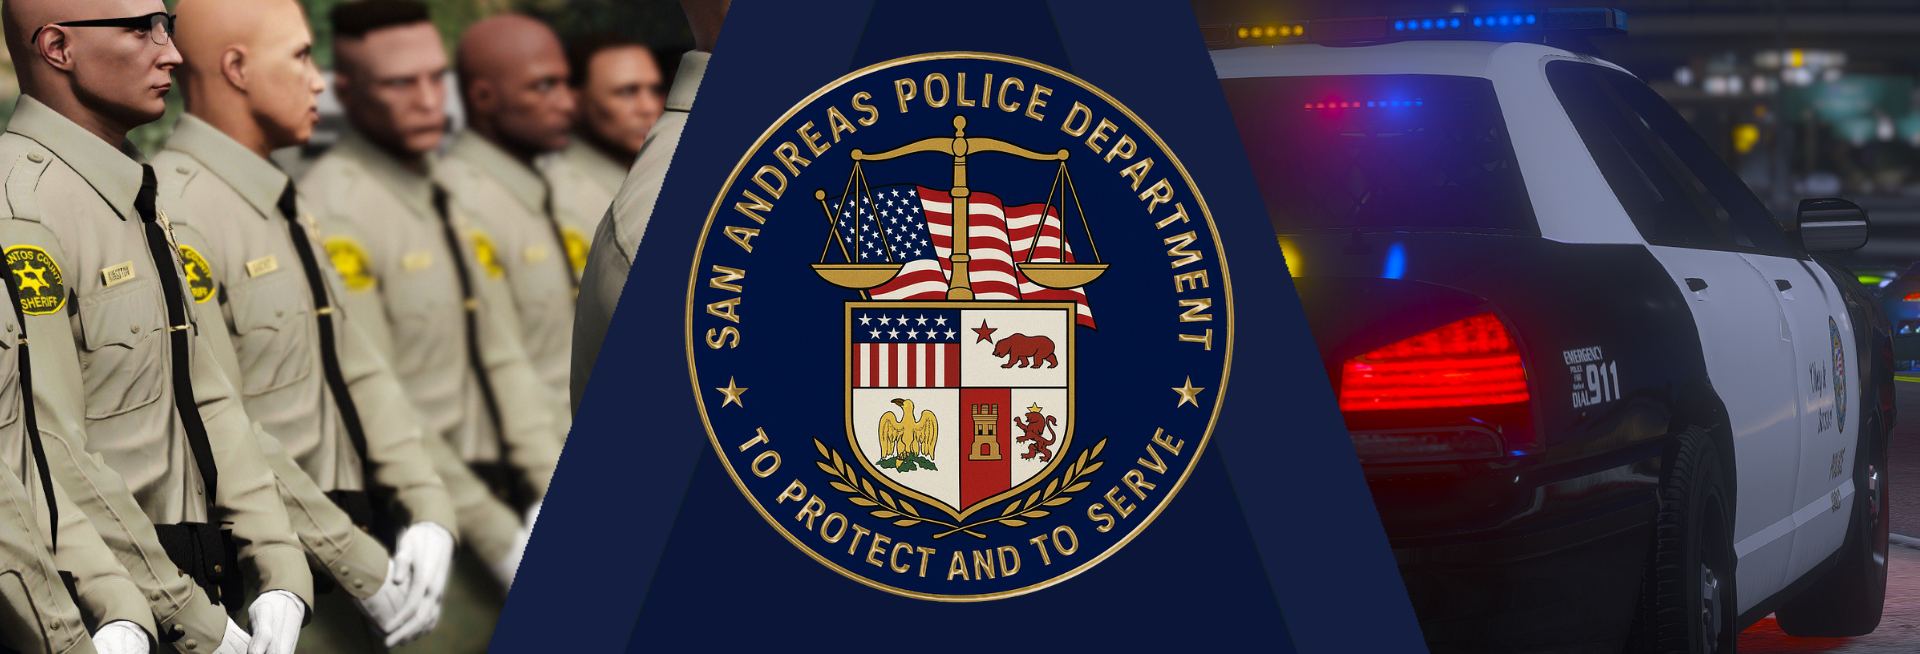
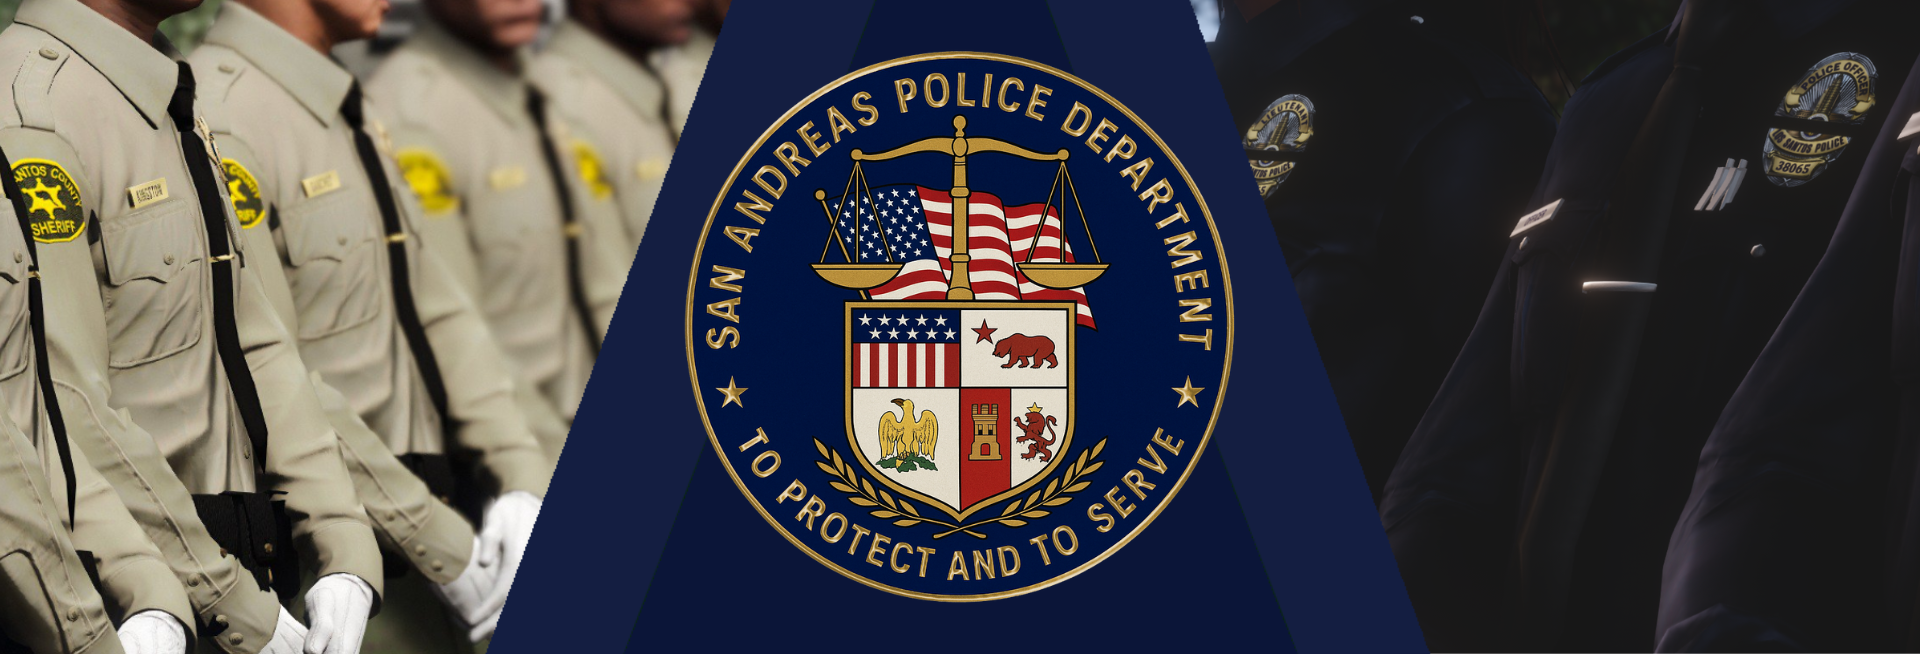
FEAT: Modificado el acceso html para la lspd

diff --git a/accesolssd.html b/accesolssd.html
@@ -1,0 +1,101 @@
+<!DOCTYPE html>
+<html lang="es">
+<head>
+    <meta charset="UTF-8">
+    <meta name="viewport" content="width=device-width, initial-scale=1.0">
+    <title>Acceso LSSD - Los Santos County Sheriff Department</title>
+    <link rel="icon" type="img/LSPDLOGO.png" href="img/LSPDLOGO.png">
+    <link rel="stylesheet" href="style.css">
+</head>
+<body>
+    <!-- Navbar -->
+    <nav class="navbar">
+        <div class="nav-container">
+            <a href="index.html" class="nav-logo">
+                <img src="img/logov2.png" alt="LSPD Logo">
+                <span class="nav-logo-text">San Andreas Police Department</span>
+            </a>
+            <div class="hamburger">
+                <span class="bar"></span>
+                <span class="bar"></span>
+                <span class="bar"></span>
+            </div>
+            <ul class="nav-menu">
+                <li><a href="index.html">Inicio</a></li>
+                <li><a href="acceso.html" >Acceso LSPD</a></li>
+                <li><a href="accesolssd.html"class="active">Acceso LSSD</a></li>
+                <li><a href="galeria.html">Galería</a></li>
+                <li><a href="informacion.html">Información</a></li>
+                <li><a href="denuncias.html" >Denuncias</a></li>
+
+
+            </ul>
+        </div>
+    </nav>
+
+    <!-- Banner -->
+    <div class="page-banner">
+        <h1>Acceso a la LSPD</h1>
+    </div>
+
+    <!-- Texto motivacional -->
+    <div class="motivational-text" style="text-align: center;">
+        <p>Ayúdanos a proteger a los ciudadanos y bienes de la ciudad de Los Santos y el Estado de San Andreas, empieza tu carrera policial en la LSPD</p>
+    </div>
+
+    <!-- Imagen Promocional -->
+    <section class="promo-section">
+        <img src="img/acceso.png" alt="Cartel promocional LSPD" class="promo-image">
+    </section>
+
+    <!-- Sección de Aplicación -->
+    <section class="application-section">
+        <div class="application-box">
+            <div class="status-banner">
+                <h2>Oposiciones Cerradas</h2>
+            </div>
+            <a href="https://forms.gle/Wn9RXq5qn2vXsuCH9" class="apply-button" target="_blank">Aplicar a las Oposiciones</a>
+        </div>
+    </section>
+
+    <!-- Requisitos y Proceso -->
+    <section class="info-section">
+        <div class="info-container">
+            <div class="info-column">
+                <div class="info-card">
+                    <h2>Requisitos de Acceso</h2>
+                    <ul>
+                        <li data-description="Debes tener al menos 21 años cumplidos">Tener la mayoría de edad (21 años)</li>
+                        <li data-description="Ser ciudadano estadounidense o residente permanente">Nacionalidad Estadounidense</li>
+                        <li data-description="Educación secundaria completa">Haber acabado los estudios obligatorios</li>
+                        <li data-description="Historial limpio sin antecedentes penales">No poseer ningún delito penal</li>
+                    </ul>
+                </div>
+            </div>
+            <div class="info-column">
+                <div class="info-card">
+                    <h2>Proceso de Selección</h2>
+                    <ul>
+                        <li data-description="Presentación de documentación necesaria">Instancias</li>
+                        <li data-description="Evaluación personal y profesional">Entrevista laboral</li>
+                        <li data-description="Formación básica policial">Academia de la LSPD</li>
+                        <li data-description="Periodo de entrenamiento en campo">Etapa de prácticas</li>
+                    </ul>
+                </div>
+            </div>
+        </div>
+    </section>
+
+    <!-- Lema (movido al final) -->
+    <section class="motto-section">
+        <p class="motto-text">To Protect and to Serve</p>
+    </section>
+
+    <!-- Footer -->
+    <footer class="footer">
+        <p>© 2025 Grupo Oasis. Todos los derechos reservados.</p>
+    </footer>
+
+    <script src="app.js"></script>
+</body>
+</html>

diff --git a/acceso.html b/acceso.html
@@ -3,7 +3,7 @@
 <head>
     <meta charset="UTF-8">
     <meta name="viewport" content="width=device-width, initial-scale=1.0">
-    <title>Acceso LSSD - Los Santos County Sheriff Department</title>
+    <title>Acceso LSPD - Los Santos Police Department</title>
     <link rel="icon" type="img/LSPDLOGO.png" href="img/LSPDLOGO.png">
     <link rel="stylesheet" href="style.css">
 </head>
